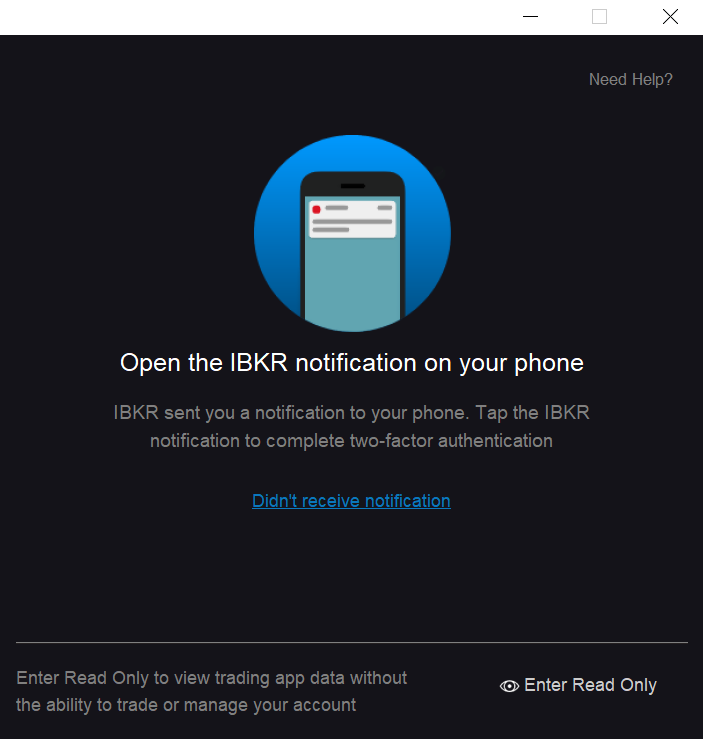
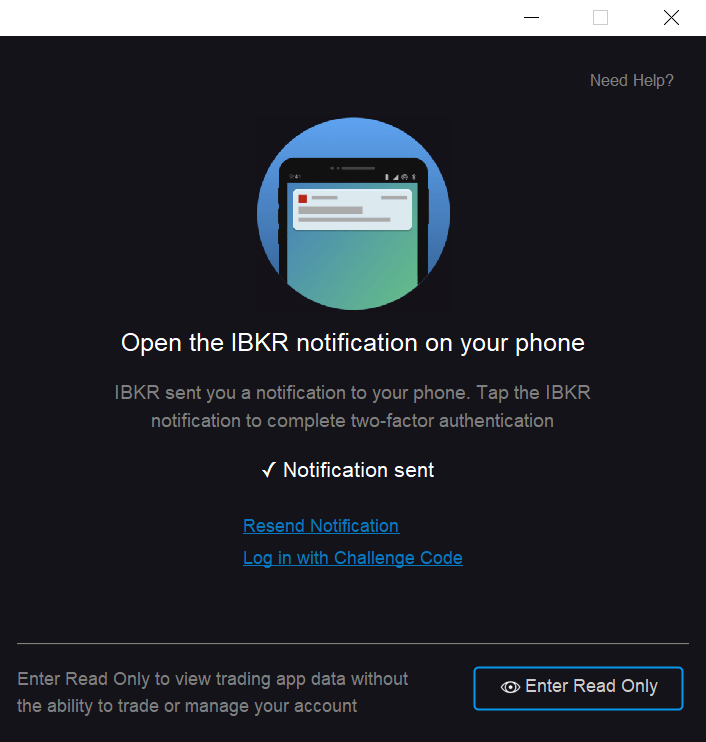
Launch IB TWS.

diff --git a/library/programme.py b/library/programme.py
@@ -46,7 +46,7 @@ def launch_tws(project_dir, user_name: str, password: str):
         os.remove(init_file)
 
     # launch TWS
-    subprocess.Popen([tws_path, f'username={user_name}', f'password={password}', f'enter-readonly={True}'])
+    subprocess.Popen([tws_path, f'username={user_name}', f'password={password}', 'enter-readonly=true'])
     logging.info("Allow 60 seconds for TWS startup...")
     time.sleep(10)
 
@@ -57,7 +57,20 @@ def launch_tws(project_dir, user_name: str, password: str):
         if element:
             break
         logging.info("IB TWS 2 factors authentication not found, try again after 5 seconds.")
+        print("IB TWS 2 factors authentication not found, try again after 5 seconds.")
         time.sleep(5)
+
+    # simulate clicking event
+    left, top, width, height = element
+    auto_gui.moveTo((left, top), duration=0.2, tween=auto_gui.easeInOutQuad)
+    auto_gui.moveTo((left + width, top), duration=0.2, tween=auto_gui.easeInOutQuad)
+    auto_gui.moveTo((left + width, top + height), duration=0.2, tween=auto_gui.easeInOutQuad)
+    auto_gui.moveTo((left, top + height), duration=0.2, tween=auto_gui.easeInOutQuad)
+    auto_gui.moveTo((left, top), duration=0.2, tween=auto_gui.easeInOutQuad)
+    x = left + width*5/6
+    y = top + height*15/16
+    auto_gui.moveTo((x, y), duration=0.2, tween=auto_gui.easeInOutQuad)
+    auto_gui.click()
 
 
 def is_running(programme_name: str = '') -> bool:
@@ -80,27 +93,32 @@ def search_image_on_screen(img_path: os.path, confidence: float, grayscale: bool
 
     # search
     vector = 1  # to define searching for enlarged size or reduced size
-    for index in range(1, 9999):
+    tried = 0
+    while True:
         logging.info(f"Searching {os.path.basename(img_path)}, size: {searching_w}x{searching_h}")
+        print(f"Searching {os.path.basename(img_path)}, size: {image.size}")
         element = auto_gui.locateOnScreen(image, confidence=confidence, grayscale=grayscale)
         if element:
+            print(f"{image} found.")
             return element
 
         # searching for different sizes
-        searching_w = image_width * (1 + index*scale_factor) * vector
-        searching_h = image_height * (1 + index*scale_factor) * vector
+        tried += 1
+        searching_w = image_width * (1 + tried*scale_factor*vector)
+        searching_h = image_height * (1 + tried*scale_factor*vector)
 
         # if searching size is too large
         if vector == 1 and any([searching_w >= screen_width,
                                 searching_h >= screen_height,
                                 searching_w >= image_width * max_scale]):
             vector = -1  # search for reduced size
+            tried = 0
             # reset size
             searching_w = image_width
             searching_h = image_height
 
         # if search size is too small, end searching loop
-        elif searching_w <= image_width / max_scale:
+        elif searching_w < image_width / max_scale:
             return None
 
         # resize for the next loop
